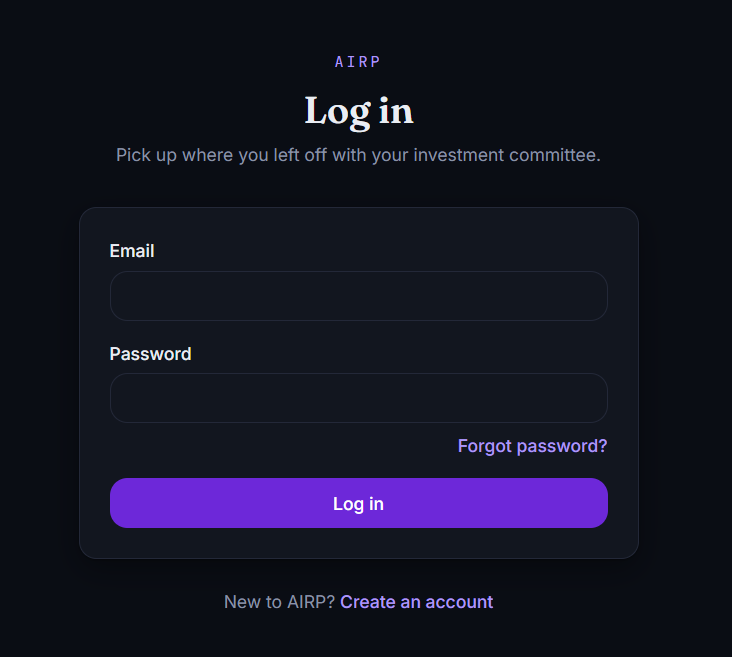
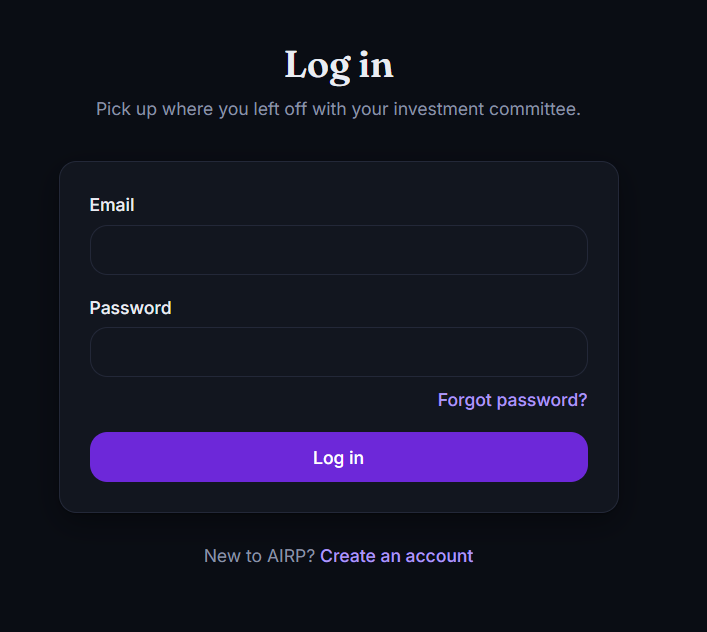
Refresh AIRP product tour with real app screenshots and sample memo PDF
Replaces the existing product-tour screenshots with fresh ones from the
live app and adds four new cards: live agent progress tracking, the
verdict/executive-summary view, memo charts, and the public accuracy
dashboard. Also links a real sample Investment Memo PDF from the verdict
card so visitors can see actual generated output.

diff --git a/AIRP.dc.html b/AIRP.dc.html
@@ -247,27 +247,43 @@
 
     <div data-reveal style="display:grid;grid-template-columns:repeat(auto-fit,minmax(280px,1fr));gap:16px;">
       <div data-tilt style="border:1px solid #436a3d;border-radius:14px;background:#0e150f;overflow:hidden;">
-        <img src="assets/images/airp/app-home.png" alt="AIRP app home screen with nav for New analysis, Compare, Dashboard, and Accuracy, and an example BUY verdict for INFY.NS" loading="lazy" style="display:block;width:100%;height:auto;border-bottom:1px solid #436a3d;">
-        <div style="padding:14px 16px;"><div style="font-size:13.5px;font-weight:600;color:#e7ebf0;">The live app</div><div style="margin-top:4px;font-size:12.5px;color:#8b95a3;line-height:1.5;">Logged in, with New analysis, Compare, Dashboard and Accuracy all one click away.</div></div>
+        <img src="assets/images/airp/app-home.png" alt="AIRP landing page: Eight agents research, debate, and decide, then hand you the memo -- with a live illustrative preview of the 8-agent run and an example INFY.NS BUY verdict" loading="lazy" style="display:block;width:100%;height:auto;border-bottom:1px solid #436a3d;">
+        <div style="padding:14px 16px;"><div style="font-size:13.5px;font-weight:600;color:#e7ebf0;">The live app</div><div style="margin-top:4px;font-size:12.5px;color:#8b95a3;line-height:1.5;">The public landing page &mdash; what a visitor sees before running their first analysis.</div></div>
       </div>
       <div data-tilt style="border:1px solid #436a3d;border-radius:14px;background:#0e150f;overflow:hidden;">
-        <img src="assets/images/airp/new-analysis.png" alt="New analysis form: search NSE companies, choose an analysis horizon, and optionally upload an annual report PDF" loading="lazy" style="display:block;width:100%;height:auto;border-bottom:1px solid #436a3d;">
+        <img src="assets/images/airp/new-analysis.png" alt="New analysis form for IndusInd Bank with a 1-year analysis horizon selected and an optional annual report PDF upload" loading="lazy" style="display:block;width:100%;height:auto;border-bottom:1px solid #436a3d;">
         <div style="padding:14px 16px;"><div style="font-size:13.5px;font-weight:600;color:#e7ebf0;">RAG over your own document</div><div style="margin-top:4px;font-size:12.5px;color:#8b95a3;line-height:1.5;">Attach a company's annual report or earnings transcript (PDF, up to 10MB) and the committee reads it before debating.</div></div>
+      </div>
+      <div data-tilt style="border:1px solid #436a3d;border-radius:14px;background:#0e150f;overflow:hidden;">
+        <img src="assets/images/airp/agent-progress.png" alt="Live agent progress tracker with a Job ID, showing all 8 committee seats -- Round 1 parallel research, Round 2 debate and challenge, and the final Portfolio Manager call -- marked Complete" loading="lazy" style="display:block;width:100%;height:auto;border-bottom:1px solid #436a3d;">
+        <div style="padding:14px 16px;"><div style="font-size:13.5px;font-weight:600;color:#e7ebf0;">Watch the committee work</div><div style="margin-top:4px;font-size:12.5px;color:#8b95a3;line-height:1.5;">Every seat streams its status live, round by round, instead of a single opaque loading spinner.</div></div>
+      </div>
+      <div data-tilt style="border:1px solid #436a3d;border-radius:14px;background:#0e150f;overflow:hidden;">
+        <img src="assets/images/airp/verdict.png" alt="Completed analysis for AU Small Finance Bank: BUY verdict with a conviction score of 6/10, executive summary, and investment thesis" loading="lazy" style="display:block;width:100%;height:auto;border-bottom:1px solid #436a3d;">
+        <div style="padding:14px 16px;"><div style="font-size:13.5px;font-weight:600;color:#e7ebf0;">The verdict, explained</div><div style="margin-top:4px;font-size:12.5px;color:#8b95a3;line-height:1.5;">A conviction score, executive summary, and full investment thesis &mdash; not just a BUY/HOLD/SELL badge. <a href="assets/docs/AIRP-Sample-Investment-Memo.pdf" target="_blank" rel="noopener" style="color:#35b877;font-weight:600;">See a sample memo PDF &rarr;</a></div></div>
+      </div>
+      <div data-tilt style="border:1px solid #436a3d;border-radius:14px;background:#0e150f;overflow:hidden;">
+        <img src="assets/images/airp/charts.png" alt="Memo charts for AUBANK.NS: 1-year price chart, revenue and profit trend, valuation vs sector peers, news sentiment gauge, and a risk profile radar chart" loading="lazy" style="display:block;width:100%;height:auto;border-bottom:1px solid #436a3d;">
+        <div style="padding:14px 16px;"><div style="font-size:13.5px;font-weight:600;color:#e7ebf0;">Data behind the call</div><div style="margin-top:4px;font-size:12.5px;color:#8b95a3;line-height:1.5;">Price history, revenue trend, peer valuation, sentiment, and a risk radar rendered straight into every memo.</div></div>
       </div>
       <div data-tilt style="border:1px solid #436a3d;border-radius:14px;background:#0e150f;overflow:hidden;">
         <img src="assets/images/airp/compare.png" alt="Company Compare page with two NSE company search fields and a Compare Companies button" loading="lazy" style="display:block;width:100%;height:auto;border-bottom:1px solid #436a3d;">
         <div style="padding:14px 16px;"><div style="font-size:13.5px;font-weight:600;color:#e7ebf0;">Compare mode</div><div style="margin-top:4px;font-size:12.5px;color:#8b95a3;line-height:1.5;">Two committees run at once; every metric is diffed once both finish, with the better value highlighted.</div></div>
       </div>
       <div data-tilt style="border:1px solid #436a3d;border-radius:14px;background:#0e150f;overflow:hidden;">
-        <img src="assets/images/airp/dashboard.png" alt="Dashboard table of past analyses showing company, date, verdict badge, and conviction score for each run" loading="lazy" style="display:block;width:100%;height:auto;border-bottom:1px solid #436a3d;">
+        <img src="assets/images/airp/dashboard.png" alt="Dashboard for Aditya showing 55 total analyses, with a table of past runs listing company, date, verdict badge, and conviction score" loading="lazy" style="display:block;width:100%;height:auto;border-bottom:1px solid #436a3d;">
         <div style="padding:14px 16px;"><div style="font-size:13.5px;font-weight:600;color:#e7ebf0;">Personal dashboard</div><div style="margin-top:4px;font-size:12.5px;color:#8b95a3;line-height:1.5;">Every past run, with its verdict and conviction score, saved to your account and reopenable at any time.</div></div>
       </div>
       <div data-tilt style="border:1px solid #436a3d;border-radius:14px;background:#0e150f;overflow:hidden;">
-        <img src="assets/images/airp/assistant.png" alt="AIRP Assistant chat widget answering a question about a stored AU Small Finance Bank analysis with its verdict and key points" loading="lazy" style="display:block;width:100%;height:auto;border-bottom:1px solid #436a3d;">
+        <img src="assets/images/airp/accuracy.png" alt="Public accuracy dashboard: How right has the committee actually been, with overall accuracy, verdicts scored, and a list of verdicts awaiting evaluation" loading="lazy" style="display:block;width:100%;height:auto;border-bottom:1px solid #436a3d;">
+        <div style="padding:14px 16px;"><div style="font-size:13.5px;font-weight:600;color:#e7ebf0;">Verdict accuracy tracker</div><div style="margin-top:4px;font-size:12.5px;color:#8b95a3;line-height:1.5;">Public, no account needed &mdash; every call is scored against what the stock actually did once its horizon elapses.</div></div>
+      </div>
+      <div data-tilt style="border:1px solid #436a3d;border-radius:14px;background:#0e150f;overflow:hidden;">
+        <img src="assets/images/airp/assistant.png" alt="AIRP Assistant chat widget asking about a user's portfolio, replying to 'I want to start a new analysis' by asking which company and time horizon" loading="lazy" style="display:block;width:100%;height:auto;border-bottom:1px solid #436a3d;">
         <div style="padding:14px 16px;"><div style="font-size:13.5px;font-weight:600;color:#e7ebf0;">AIRP Assistant</div><div style="margin-top:4px;font-size:12.5px;color:#8b95a3;line-height:1.5;">A floating chat widget, memo-scoped or portfolio-wide, that explains a verdict already reached &mdash; by design it can't be talked into issuing a new one.</div></div>
       </div>
       <div data-tilt style="border:1px solid #436a3d;border-radius:14px;background:#0e150f;overflow:hidden;">
-        <img src="assets/images/airp/login.png" alt="AIRP login page with email and password fields" loading="lazy" style="display:block;width:100%;height:auto;border-bottom:1px solid #436a3d;">
+        <img src="assets/images/airp/login.png" alt="AIRP login page with email and password fields, and a link to create an account" loading="lazy" style="display:block;width:100%;height:auto;border-bottom:1px solid #436a3d;">
         <div style="padding:14px 16px;"><div style="font-size:13.5px;font-weight:600;color:#e7ebf0;">Real accounts</div><div style="margin-top:4px;font-size:12.5px;color:#8b95a3;line-height:1.5;">JWT-backed login, registration, and a forgot/reset-password flow &mdash; not a single shared demo session.</div></div>
       </div>
     </div>
